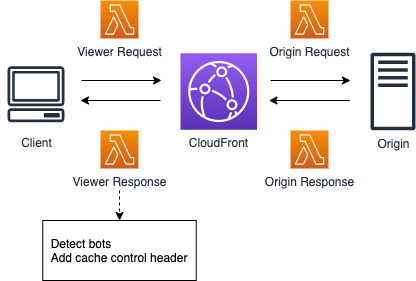
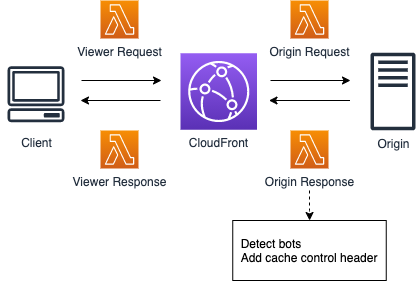
doc: update bot-detection readme

Changed region(s): [[0.5312, 0.7402, 0.9375, 1.0], [0.0938, 0.7402, 0.5, 1.0]]

diff --git a/edge/nodejs/bot-detection/README.md b/edge/nodejs/bot-detection/README.md
@@ -9,7 +9,9 @@ This solution detects bots according to User Agent and add cache control header 
 
 <img src='./diagram.png'>
 
-CloudFront event type for this Lambda@Edge: viewer response
+CloudFront event type for this Lambda@Edge: origin response or viewer response
+
+If you use it in origin response, you need to add user-agent(User-Agent) into CloudFront header whitelist so that the user agent header can be passed to origin response, or else the user agent will be Amazon CloudFront
 
 
 ## Use Cases
